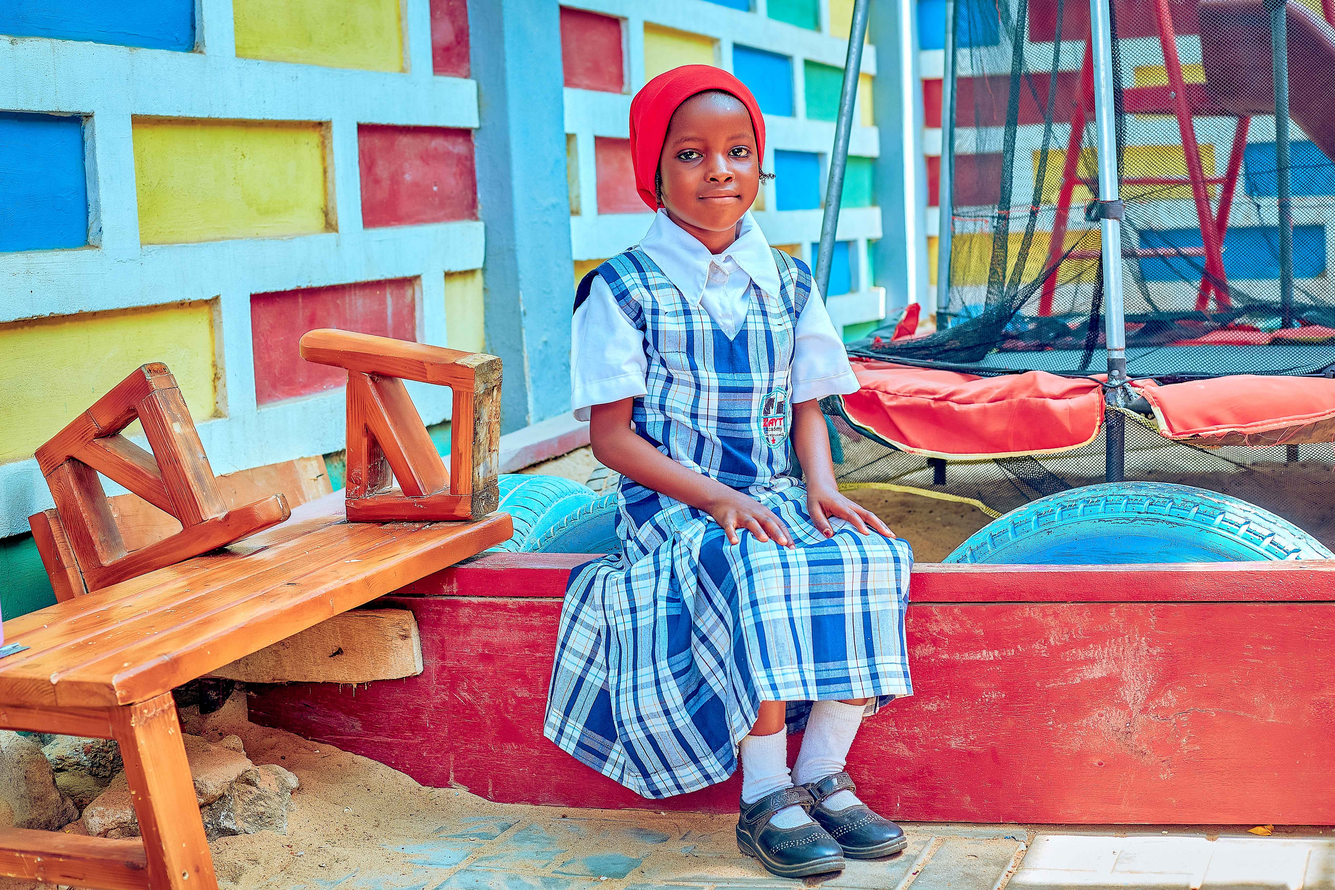
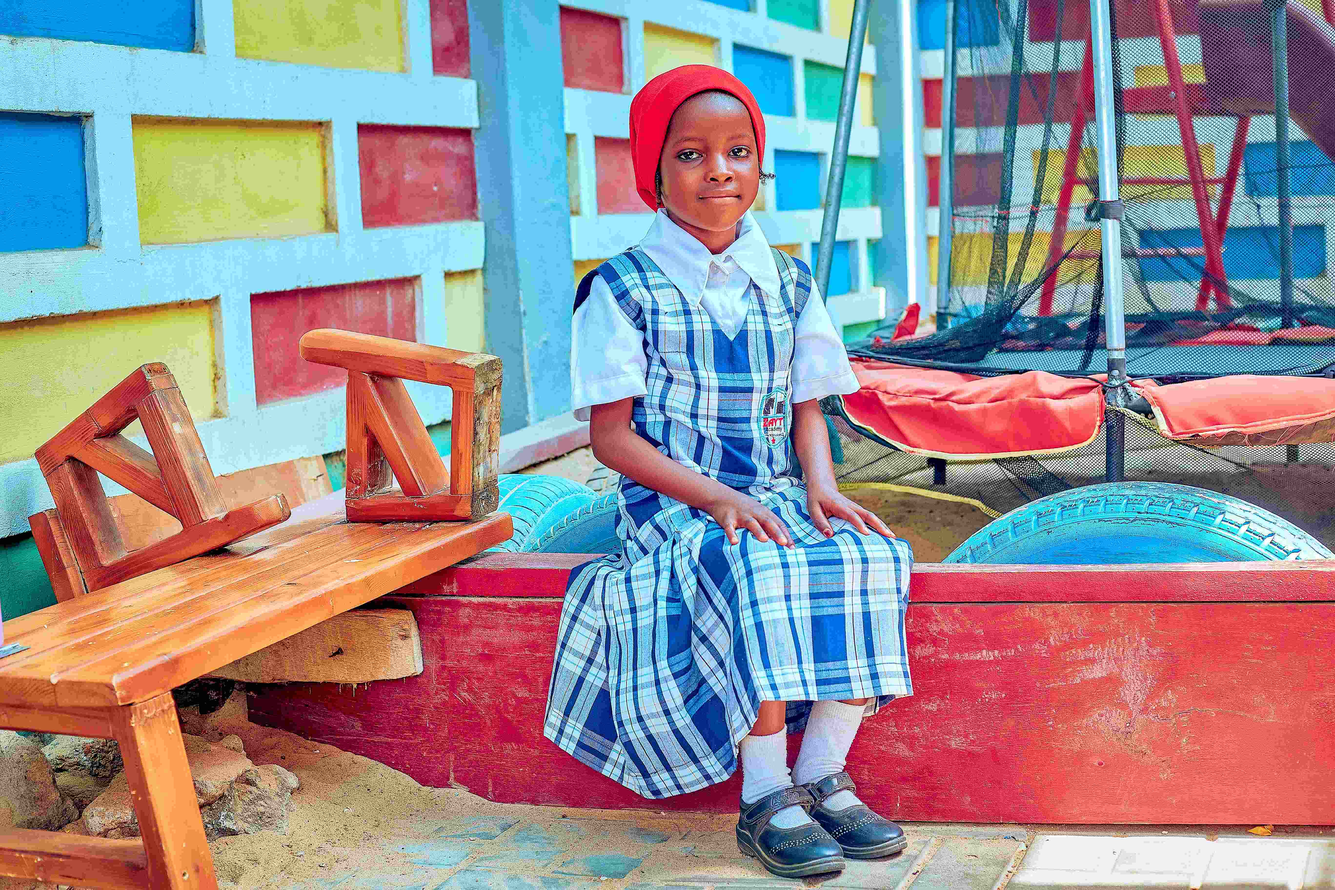
Pictures optimization

diff --git a/src/sections/volanteers.tsx b/src/sections/volanteers.tsx
@@ -1,12 +1,28 @@
 // import React from 'react'
 
-import Marquee from "react-fast-marquee";
+import { motion } from "framer-motion";
 import { Card } from "../components/card";
 import { volanteers } from "../data";
+import Style from "./Slider.module.css";
+
 export const Volanteers = () => {
+	// useEffect(() => {
+	// 	setWidth(dragSlider.current.scrollWidth - dragSlider.current.offsetWidth);
+	// });
+
+	// const handleScroll = direction => {
+	// 	const { current } = dragSlider;
+	// 	const scrollAmount = window.innerWidth > 1800 ? 270 : 210;
+
+	// 	if (direction == "left") {
+	// 		current.scrollLeft -= scrollAmount;
+	// 	} else {
+	// 		current.scrollLeft += scrollAmount;
+	// 	}
+	// };
 	return (
-		<div className="bg-customSecondary flex justify-center">
-			<div className="container pt-28 text-white mb-16">
+		<div className="bg-customSecondary flex justify-center m">
+			<div className="container pt-28 text-white mb-16 px-1">
 				<h2 className="text-5xl font-sbdisplay mb-9">Meet Our Volunteers</h2>
 				<p className="font-loutfit text-2xl mb-20">
 					Zaytfoundation is run by a team of very committed staff both in the
@@ -14,16 +30,26 @@ export const Volanteers = () => {
 					without the contribution of volunteers. 
 				</p>
 				<div>
-					<Marquee className="md:flex gap-7">
-						{volanteers.map((data: any, id: number) => (
-							<Card
-								img={data.pic}
-								name={data.name}
-								position={data.position}
-								key={id}
-							/>
-						))}
-					</Marquee>
+					<motion.div
+						className={Style.slider_box_itmes}
+						// ref={dragSlider}
+					>
+						<motion.div
+							// ref={dragSlider}
+							className={Style.slider_box_item}
+							// drag="x"
+							// dragConstraints={{ right: 0, left: -width }}
+						>
+							{volanteers.map((data: any, id: number) => (
+								<Card
+									img={data.pic}
+									name={data.name}
+									position={data.position}
+									key={id}
+								/>
+							))}
+						</motion.div>
+					</motion.div>
 				</div>
 			</div>
 		</div>

diff --git a/src/sections/Slider.module.css b/src/sections/Slider.module.css
@@ -1,0 +1,49 @@
+.slider {
+    width: 100%;
+}
+
+.slider_box {
+    width: 80%;
+    margin: 0 auto;
+    padding: 0 -1rem 8rem 0;
+}
+
+
+
+.slider_box_itmes {
+    width: 100%;
+
+}
+
+.slider_box_item {
+    display: grid;
+    grid-template-columns: repeat(6, 26.4rem);
+    gap: 1rem;
+    padding: 4rem 2rem;
+    cursor: grab;
+}
+
+.slider_box_item::-webkit-scrollbar {
+    display: none;
+}
+
+@media screen and (max-width: 35em) {
+
+
+    .slider_box_item {
+        overflow: auto;
+        grid-template-columns: repeat(6, 95%);
+        padding: 4rem 0;
+    }
+
+    .slider_box {
+        width: 90%;
+    }
+
+    .slider_box_itmes {
+        overflow: scroll;
+        /* padding: 0 .5rem; */
+    }
+
+
+}

diff --git a/src/sections/aboutUs.tsx b/src/sections/aboutUs.tsx
@@ -7,7 +7,7 @@ const cardWrapper = "flex items-center justify-center gap-2 m-2";
 const h2Style = "text-customSecondary text-3xl font-bold";
 const AboutUs = () => {
 	return (
-		<div className="bg-customPrimary text-white flex justify-center pt-36">
+		<div className="bg-customPrimary text-white flex justify-center pt-36 px-1">
 			<div className="container flex  flex-col md:grid mb-32">
 				<div className="mb-8 ">
 					<h1 className="font-sdisplay text-5xl">- About Us</h1>
